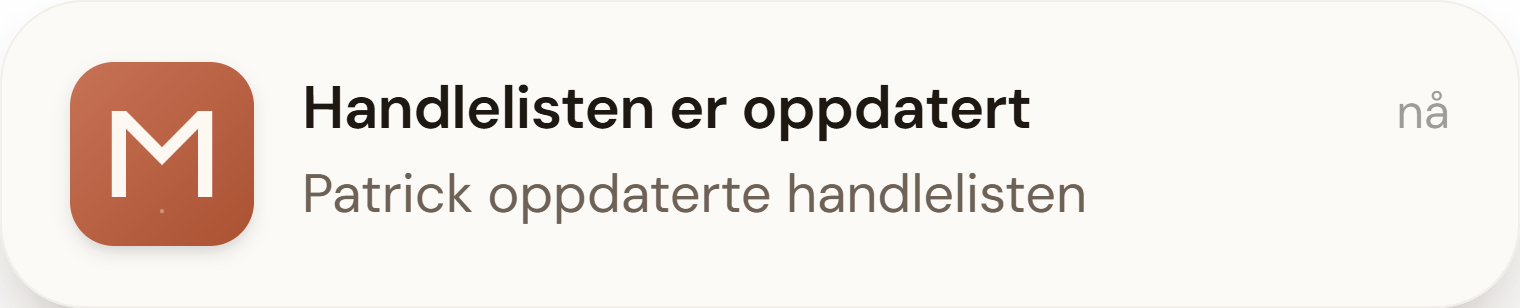
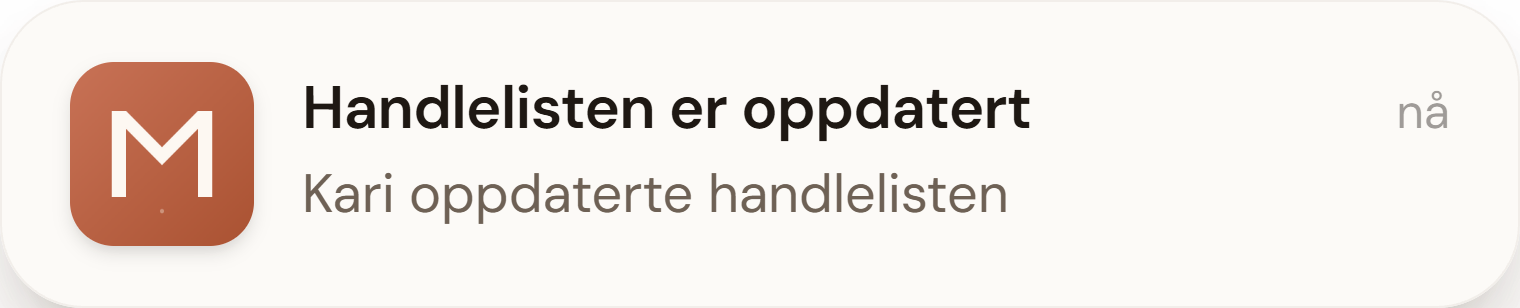
fix(landing): fjern personnavn fra personvern og notifikasjon
- Behandlingsansvarlig oppgis som «en privatperson i Norge» + [email redacted] (ikke fullt navn)
- Notifikasjonsbilde: «Kari» i stedet for personnavn

Changed region(s): [[0.1855, 0.5552, 0.7112, 0.7305]]

diff --git a/personvern.html b/personvern.html
@@ -91,7 +91,7 @@
 
   <h2>Behandlingsansvarlig</h2>
   <p>
-    Matlyst er et personlig hobbyprosjekt drevet av Patrick Kabia (privatperson). Har du spørsmål om personvern
+    Matlyst er et personlig hobbyprosjekt drevet av en privatperson i Norge. Har du spørsmål om personvern
     eller vil bruke rettighetene dine, kontakt på <a href="mailto:[email redacted]">[email redacted]</a>.
   </p>
 